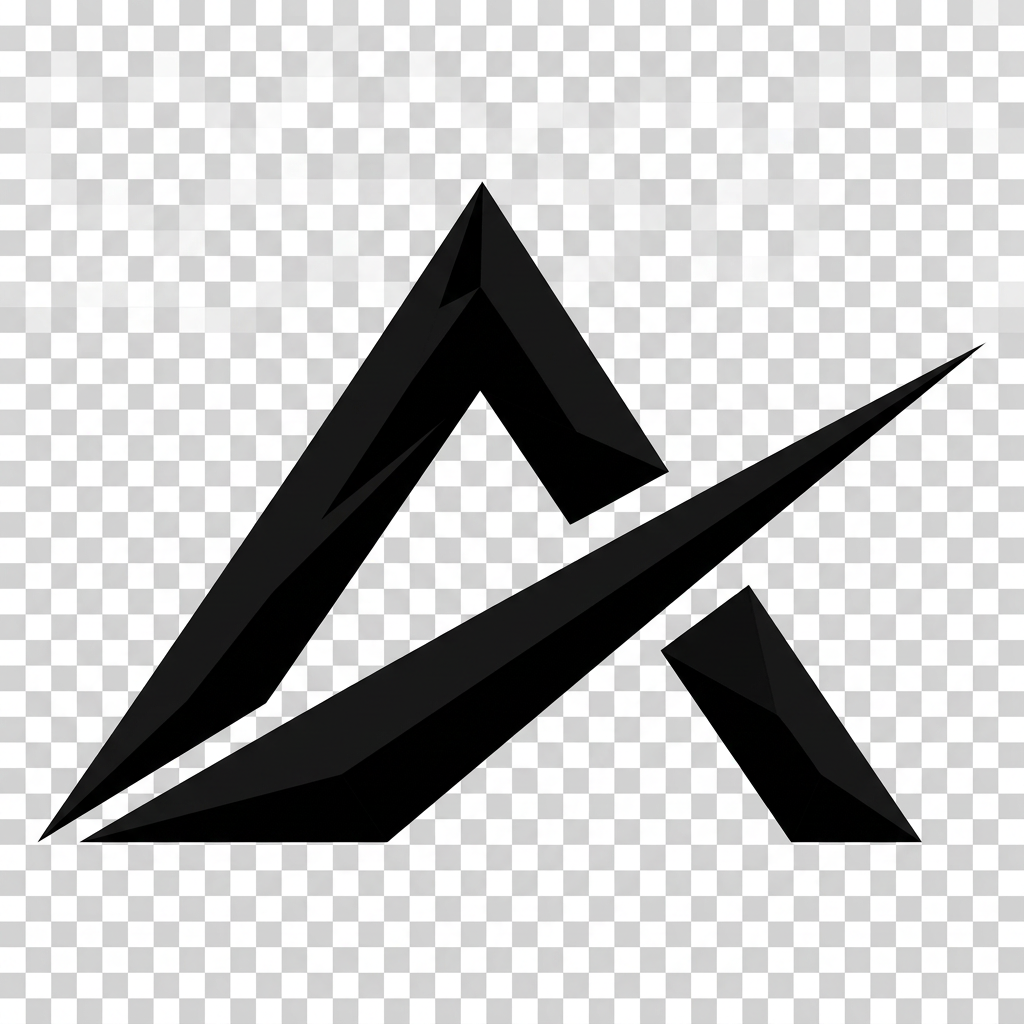
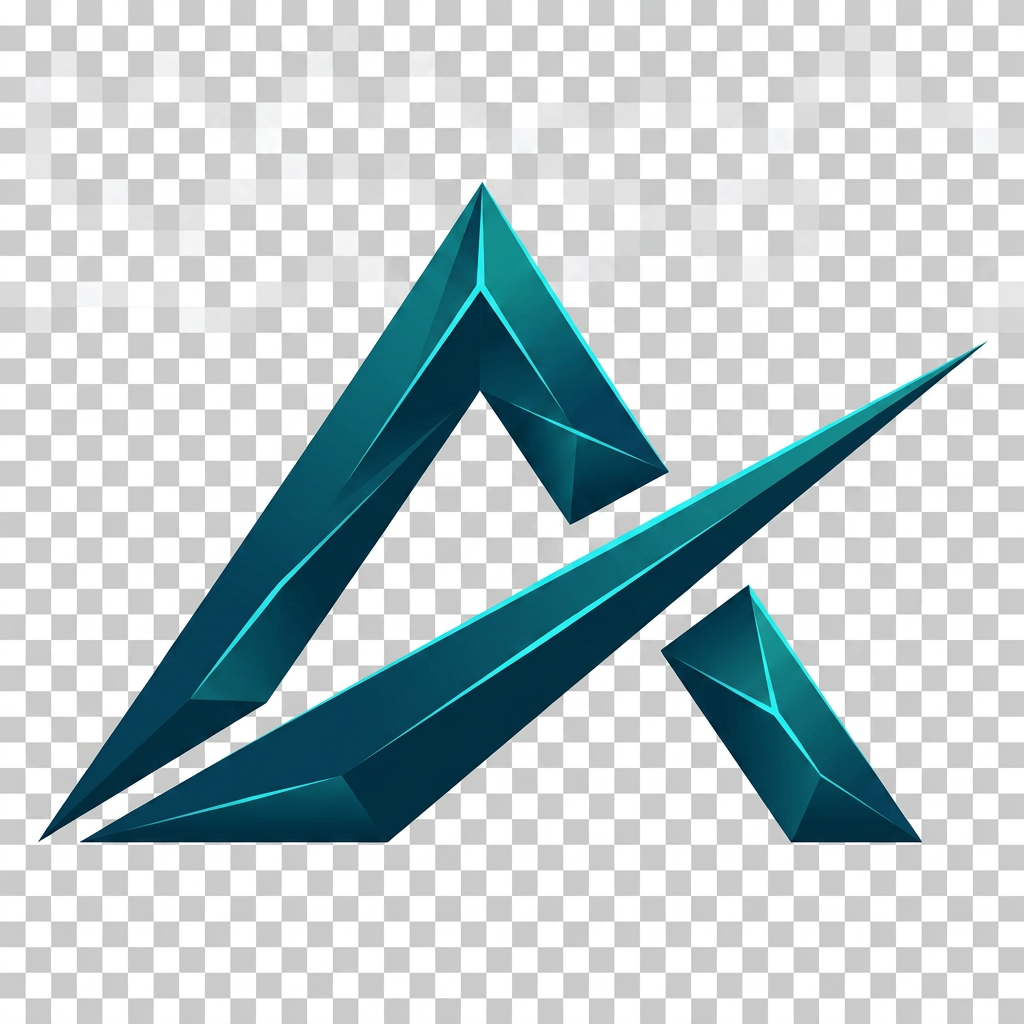
Changes

Changed region(s): [[0.0312, 0.1875, 0.9375, 0.8438]]

diff --git a/src/styles.css b/src/styles.css
@@ -21,18 +21,16 @@
 }
 
 :root {
-  --navy: #0a0a0a;
-  --navy2: #161616;
-  --slate-ink: #3a3a3a;
-  --muted-ink: #8a8a8a;
-  --line: #e6e6e6;
-  --cream: #fafafa;
-  /* Accent: behaves as a high-contrast neutral. On light surfaces it reads near-black;
-     on dark surfaces we override locally with text-white / border-white utilities. */
-  --gold: #1a1a1a;
-  --gold2: #2e2e2e;
+  --navy: #0c4a6e;
+  --navy2: #0e5a82;
+  --slate-ink: #3a6b82;
+  --muted-ink: #6b8fa3;
+  --line: #c4eef5;
+  --cream: #ecfeff;
+  --gold: #0891b2;
+  --gold2: #22d3ee;
   --background: #ffffff;
-  --foreground: #0a0a0a;
+  --foreground: #0c4a6e;
   --nav-h: 72px;
 }
 

diff --git a/src/routes/index.tsx b/src/routes/index.tsx
@@ -172,7 +172,7 @@ function Index() {
           className="absolute inset-0"
           style={{
             backgroundImage:
-              "radial-gradient(circle, rgba(200,169,110,0.06) 1px, transparent 1px)",
+              "radial-gradient(circle, rgba(34,211,238,0.06) 1px, transparent 1px)",
             backgroundSize: "40px 40px",
           }}
         />
